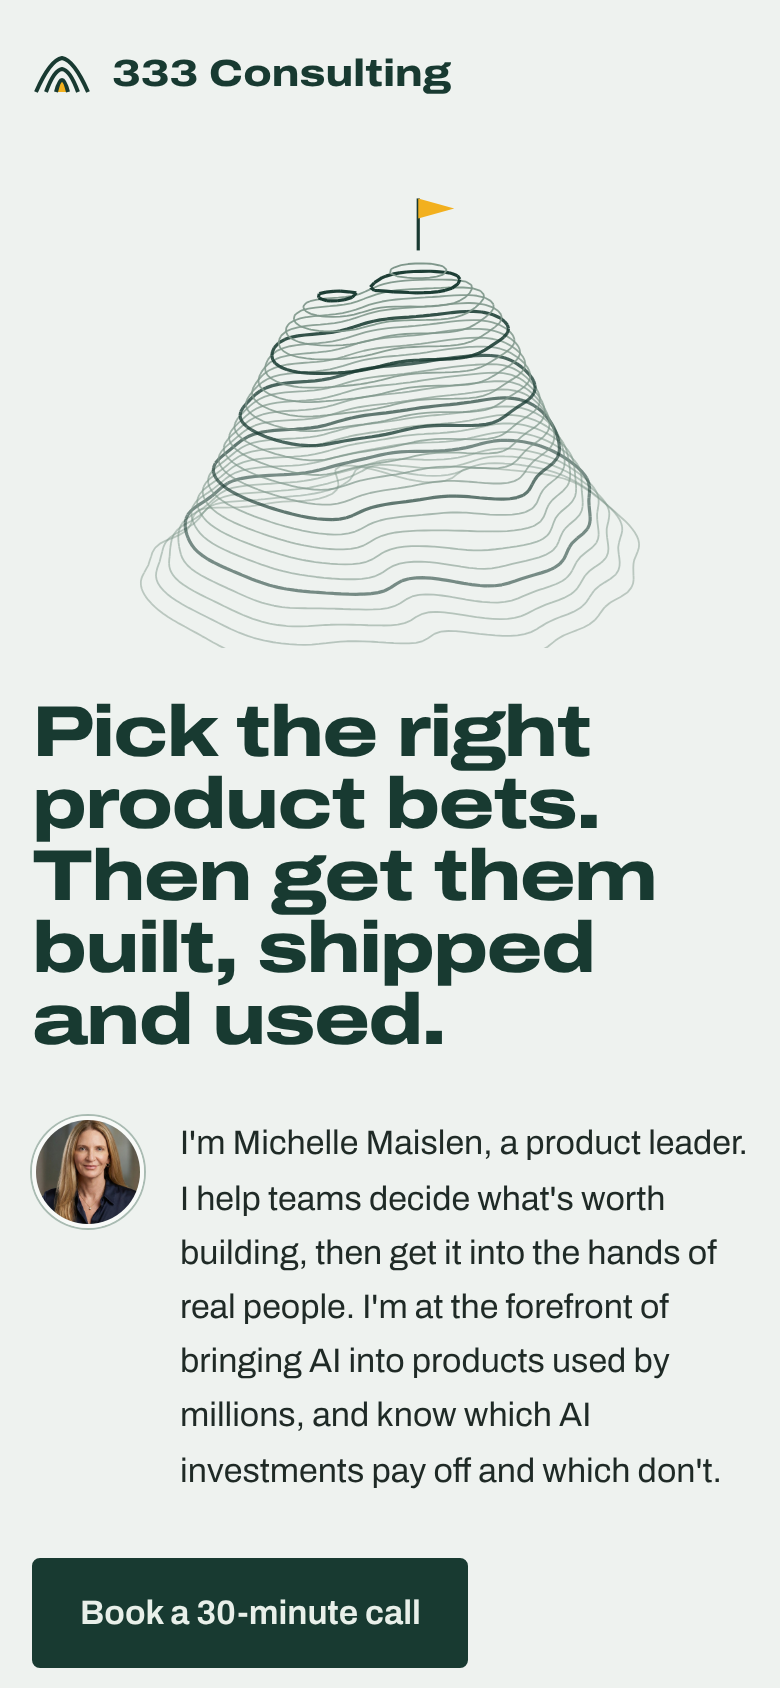
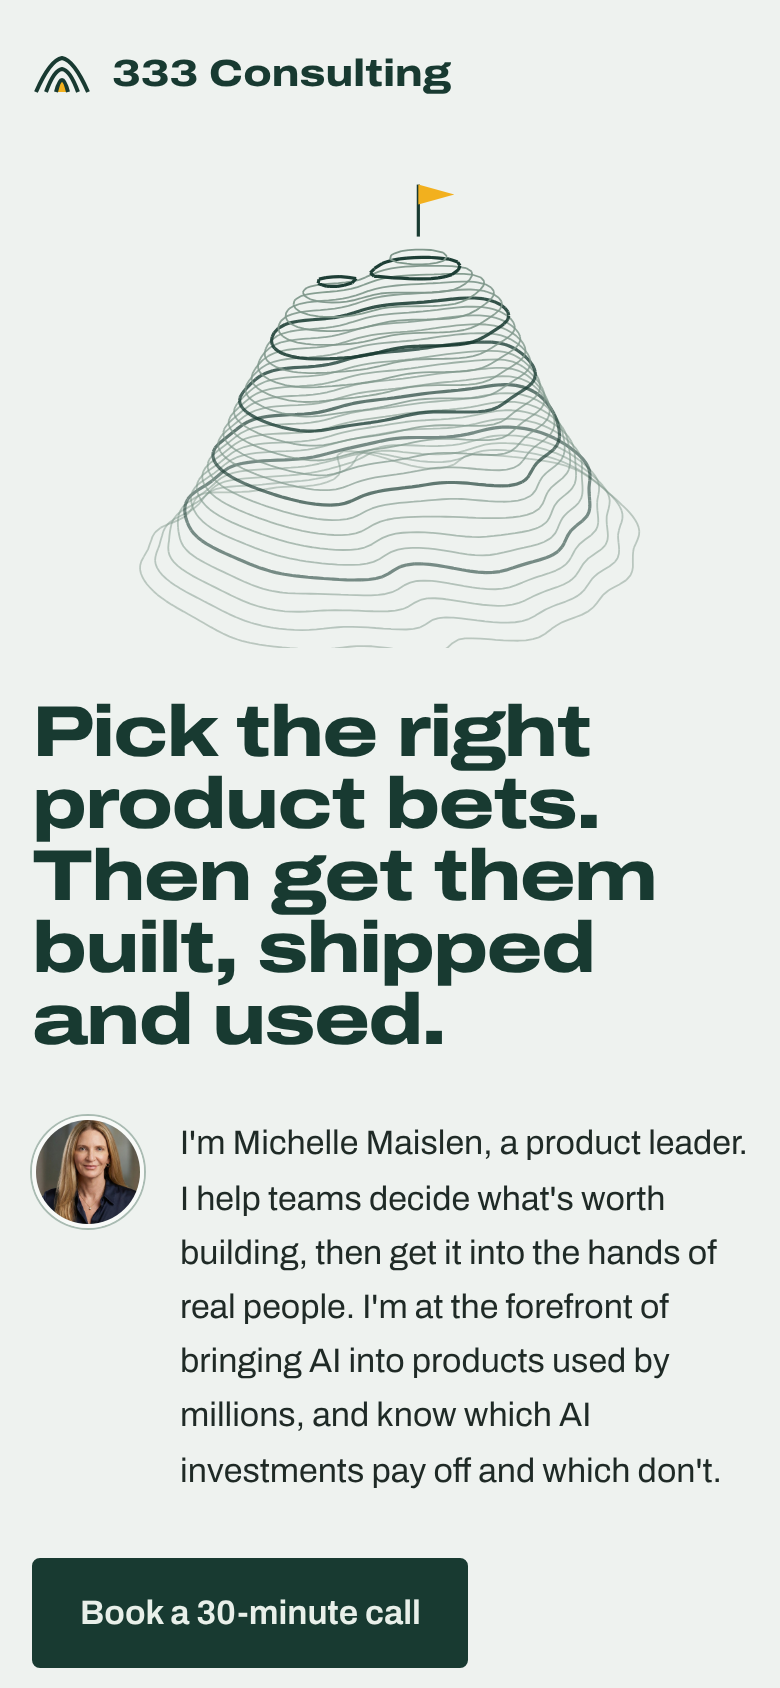
Keep the mountain base inside the frame on phones
Claude-Session: https://claude.ai/code/session_01MV51zhT8Ci4aux5RyiGwML

Changed region(s): [[0.1846, 0.0924, 0.8308, 0.4005]]

diff --git a/terrain.js b/terrain.js
@@ -44,7 +44,7 @@
     function draw() {
       if (!w) return;
       ctx.clearRect(0, 0, w, h);
-      const s = Math.min(w, h * 1.0) * 0.56, cx = w * 0.5, cy = h * (w > h * 1.4 ? 0.82 : 0.76), tilt = opts.tilt, zs = 1.35 / max;
+      const s = Math.min(w, h * 1.0) * 0.56, cx = w * 0.5, cy = h * (w > h * 1.4 ? 0.79 : 0.76), tilt = opts.tilt, zs = 1.35 / max;
       const ca = Math.cos(angle), sa = Math.sin(angle), ct = Math.cos(tilt), st = Math.sin(tilt);
       const P = (x, y, z) => { const rx = x * ca - y * sa, ry = x * sa + y * ca; return [cx + rx * s, cy + (ry * st - z * zs * ct) * s]; };
       for (let k = 1; k <= LEVELS; k++) {
